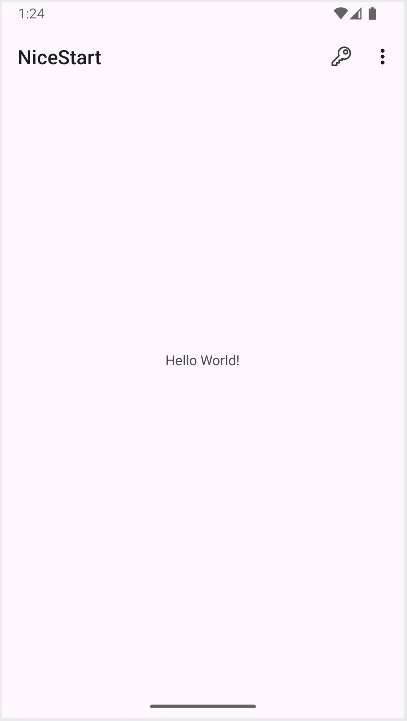
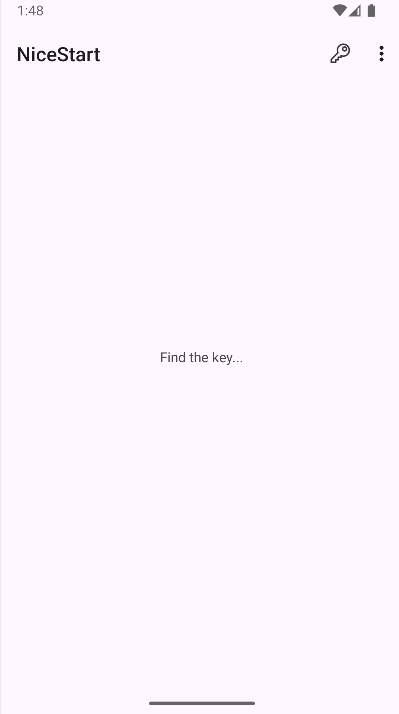
readme snackbar update

diff --git a/app/src/main/java/com/example/nicestart/MainActivity.java b/app/src/main/java/com/example/nicestart/MainActivity.java
@@ -67,8 +67,8 @@ public class MainActivity extends AppCompatActivity {
             Toast toast = Toast.makeText(this, "Setting...", Toast.LENGTH_LONG);
             toast.show();
             return true;
-        }else if(item.getItemId() == R.id.itemCopy){
-            Snackbar snackbar = Snackbar.make(findViewById(R.id.itemCopy), "Key collected", BaseTransientBottomBar.LENGTH_LONG);
+        }else if(item.getItemId() == R.id.itemKey){
+            Snackbar snackbar = Snackbar.make(findViewById(R.id.itemKey), "Key collected", BaseTransientBottomBar.LENGTH_LONG);
 
             snackbar.setAction("Return the key", new View.OnClickListener() {
                 @Override

diff --git a/README.md b/README.md
@@ -21,33 +21,43 @@
 </com.google.android.material.textfield.TextInputLayout>
 ```
 
-## Mi pantalla de carga
+# Mi pantalla de carga
 Esta pantalla cuenta con una animación en el logo en la que se mueve para arriba y luego vuelve a bajar (transition), tiene un blink y rota sobre si mismo.
 
 ![pantalla de carga](./img/loading.png)
 
-## Mi pantalla de Login
+# Mi pantalla de Login
 
 ![pantalla de login](./img/login.png)
 
-## Mi pantalla de Registro
+# Mi pantalla de Registro
 
 ![pantalla de registro](./img/signup.png)
 
-## Mi pantalla principal
+# Mi pantalla principal
 Esta pantalla cuenta con un menú contextual al mantener pulsado el texto situado en el centro.
 También cuenta con un menú appbar y con un swipe refresh.
 
 ![pantalla principal](./img/main.png)
 
-# Menú contextual
-![pantalla principal](./img/menu_context.png)
+### Menú contextual
+![menu context](./img/menu_context.png)
 
-# Menú appbar
-![pantalla principal](./img/menu_appbar.png)
+### Menú appbar
+![menu appbar](./img/menu_appbar.png)
 
-# Swipe Refresh
-![pantalla principal](./img/swipe_refresh.png)
+### Swipe Refresh
+![swipe refresh](./img/swipe_refresh.png)
+
+# The key...
+En el centro podemos ver un texto indicandonos que encontremos la llave.
+La llave en un icono ubicado en el menú action bar (arriba a la derecha).
+
+![key action icon](./img/key_icon.png)
+
+Al pulsarlo nos aparece un snackbar diciendonos que hemos encontrado la llave y si queremos devolverla (devolverla sería reiniciar el juego).
+
+![snackbar](./img/snackbar.png)
 
 > ##### Si consideras útil el repositorio, apóyalo haciendo "★ Star" en el repositorio. ¡Gracias!
 
